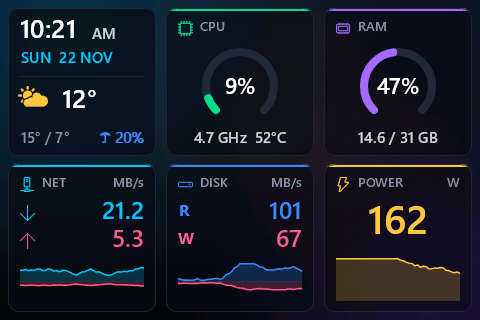
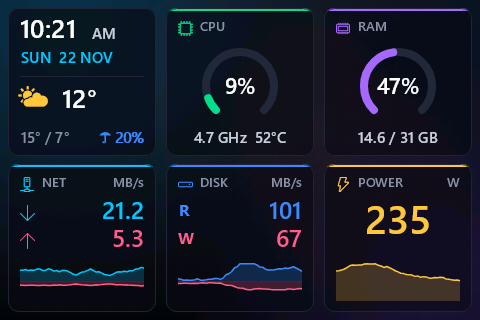
Show the whole PC's power at the wall, estimated from the CPU and GPU
power.total is only the CPU package and the graphics card. The new key
power.wall estimates the wall socket: scale × power.total + offset, set
by "wallPower" in settings.json. The defaults (1.15 and 49 W) are worked
out for this PC: the board, RAM, 7 ARGB fans and 2 NVMe drives draw
about 37 W idle and 58 W in a game, and a 1000 W Gold PSU is about 82%
efficient at idle and 90% in a game. docs/guide.md has the breakdown,
and how two power meter readings give the real line.

The default layout's POWER card and the gaming layout's power line now
show power.wall; the gaming layout no longer splits it into CPU and GPU.
The default's power graph goes to 500 W.

Changed region(s): [[0.75, 0.625, 0.9062, 0.75], [0.6875, 0.7812, 0.9688, 0.875]]

diff --git a/src/SensorPanel/Sensors/SensorHub.cs b/src/SensorPanel/Sensors/SensorHub.cs
@@ -92,6 +92,7 @@ public sealed class SensorHub : IDisposable
     private DiskActivity? _diskActivity;
     private Weather? _weather;
     private readonly WeatherSettings? _weatherSettings;
+    private readonly WallPowerSettings _wallPower;
 
     private static readonly string[] DiskSpaceKeys = ["disk.total", "disk.free", "disk.used", "disk.load"];
 
@@ -108,9 +109,12 @@ public sealed class SensorHub : IDisposable
     /// <param name="keys">The keys the widgets read; only these are bound, and only their devices polled.</param>
     /// <param name="lhmGpu">Read the GPU through LHM even when NVML is there ("lhmGpu" in settings.json).</param>
     /// <param name="weather">Where the weather.* keys are for ("weather" in settings.json).</param>
-    public SensorHub(int refreshMs, IReadOnlyDictionary<string, int> intervals, IEnumerable<string> keys, bool lhmGpu, WeatherSettings? weather = null)
+    /// <param name="wallPower">How power.wall is worked out from power.total ("wallPower" in settings.json).</param>
+    public SensorHub(int refreshMs, IReadOnlyDictionary<string, int> intervals, IEnumerable<string> keys, bool lhmGpu,
+        WeatherSettings? weather = null, WallPowerSettings? wallPower = null)
     {
         _weatherSettings = weather;
+        _wallPower = wallPower ?? new();
         _nvml = lhmGpu ? null : Nvml.Open();
         _computer.IsGpuEnabled = _nvml is null;     // once LHM polls the GPU at all, it pays the whole 77 ms
         _computer.Open();
@@ -233,6 +237,7 @@ public sealed class SensorHub : IDisposable
     {
         ["mem.total"] = ["mem.used", "mem.free"],
         ["power.total"] = ["cpu.power", "gpu.power"],
+        ["power.wall"] = ["cpu.power", "gpu.power"],    // through power.total, which AddDerived works out first
     };
 
     /// <summary>
@@ -244,6 +249,7 @@ public sealed class SensorHub : IDisposable
     [
         "mem.total",
         "power.total",
+        "power.wall",
         .. DiskSpaceKeys,
         DiskActivity.ReadKey, DiskActivity.WriteKey,
         "uptime.days", "uptime.hours", "uptime.minutes",
@@ -264,8 +270,11 @@ public sealed class SensorHub : IDisposable
         // not what the wall socket sees. Like any key, it is absent ("--") when either is missing,
         // rather than a total that quietly leaves one out.
         if (Snapshot.TryGetValue("cpu.power", out var cpuPower) && Snapshot.TryGetValue("gpu.power", out var gpuPower))
+        {
             Snapshot["power.total"] = cpuPower + gpuPower;
-        else Snapshot.Remove("power.total");
+            Snapshot["power.wall"] = _wallPower.At(cpuPower + gpuPower);
+        }
+        else { Snapshot.Remove("power.total"); Snapshot.Remove("power.wall"); }
 
         // Each read of drive space is a GetDiskFreeSpaceEx call, for numbers that move over
         // minutes; between reads the keys keep their values in the snapshot.
@@ -336,5 +345,21 @@ public sealed class SensorHub : IDisposable
         _diskActivity?.Dispose();
         _weather?.Dispose();
     }
+}
+
+/// <summary>
+/// settings.json's "wallPower": what the PC draws from the wall, as a straight line through
+/// power.total (CPU + GPU), which leaves out the board, RAM, fans, drives and the PSU's own losses.
+/// The defaults are an estimate for a Ryzen 7 9850X3D, RTX 5070 Ti, X870 board, 7 ARGB fans, 2 NVMe
+/// drives and a 1000 W Gold PSU. Measured at the wall, two readings give the line: see docs/guide.md.
+/// </summary>
+public sealed class WallPowerSettings
+{
+    /// <summary>Watts at the wall for each watt of power.total.</summary>
+    public double Scale { get; set; } = 1.15;
+    /// <summary>Watts at the wall on top of that.</summary>
+    public double Offset { get; set; } = 49;
+
+    public double At(double total) => Scale * total + Offset;
 }
 

diff --git a/src/SensorPanel/Worker.cs b/src/SensorPanel/Worker.cs
@@ -25,6 +25,7 @@ public sealed class Worker(IPresenter presenter, bool verbose)
     private int _appliedChoice = NoBrightness;      // _chosenBrightness as the presenter was last configured with; worker thread only
     private const int NoBrightness = -1;
     private WeatherSettings? _weather;
+    private WallPowerSettings? _wallPower;
     private readonly ManualResetEventSlim _dark = new(false);   // set once the panel has been blanked for sleep
     private volatile bool _stop, _suspended, _displaysOff;
 
@@ -47,15 +48,17 @@ public sealed class Worker(IPresenter presenter, bool verbose)
     /// <param name="fallbackPath">Loaded instead if <paramref name="configPath"/> cannot be.</param>
     /// <param name="lhmGpu">"lhmGpu" from settings.json, for the SensorHub.</param>
     /// <param name="weather">"weather" from settings.json, for the SensorHub.</param>
+    /// <param name="wallPower">"wallPower" from settings.json, for the SensorHub.</param>
     /// <param name="upsideDown">"upsideDown" from settings.json: every config's orientation is turned 180°.</param>
     /// <param name="fallbackBrightness">"brightness" from settings.json, for configs that set none of their own.</param>
     /// <param name="chosenBrightness">Picked from the tray, over every config's and settings.json's; null for none.</param>
-    public void Start(string configPath, string fallbackPath, bool lhmGpu, WeatherSettings? weather, bool upsideDown, int fallbackBrightness, int? chosenBrightness)
+    public void Start(string configPath, string fallbackPath, bool lhmGpu, WeatherSettings? weather, WallPowerSettings? wallPower, bool upsideDown, int fallbackBrightness, int? chosenBrightness)
     {
         _requested = configPath;
         _fallback = fallbackPath;
         _lhmGpu = lhmGpu;
         _weather = weather;
+        _wallPower = wallPower;
         _upsideDown = upsideDown;
         _fallbackBrightness = fallbackBrightness;
         _chosenBrightness = chosenBrightness ?? NoBrightness;
@@ -215,7 +218,7 @@ public sealed class Worker(IPresenter presenter, bool verbose)
             config = Config.Load(path);
             renderer = new Renderer(config, Path.GetDirectoryName(Path.GetFullPath(path))!);
             var keys = config.Widgets.SelectMany(w => w.SensorKeys());
-            if (_sensors is null) _sensors = new SensorHub(config.RefreshMs, config.SensorIntervals, keys, _lhmGpu, _weather);
+            if (_sensors is null) _sensors = new SensorHub(config.RefreshMs, config.SensorIntervals, keys, _lhmGpu, _weather, _wallPower);
             else _sensors.Configure(config.RefreshMs, config.SensorIntervals, keys);
         }
         catch (Exception e) when (e is JsonException or IOException or UnauthorizedAccessException or InvalidDataException)

diff --git a/src/SensorPanel/Program.cs b/src/SensorPanel/Program.cs
@@ -29,7 +29,8 @@ internal static class Program
                 case "sensors":
                     WarnIfNoDriver();
                     var defaults = new Config();
-                    using (var hub = new SensorHub(defaults.RefreshMs, defaults.SensorIntervals, SensorHub.HardwareKeys, ReadSettings().LhmGpu)) hub.Dump(Console.Out);
+                    var read = ReadSettings();
+                    using (var hub = new SensorHub(defaults.RefreshMs, defaults.SensorIntervals, SensorHub.HardwareKeys, read.LhmGpu, wallPower: read.WallPower)) hub.Dump(Console.Out);
                     return 0;
                 case "--config" when i + 1 < args.Length: configPath = Path.GetFullPath(args[++i]); break;
                 case "--png" when i + 1 < args.Length: pngPath = args[++i]; break;
@@ -80,7 +81,7 @@ internal static class Program
         // --config wins for this run; otherwise the last config picked from the menu, or the default.
         string fallback = DefaultConfig(configs);
         string? last = tray.State.Config is { } picked ? Path.Combine(configs, picked) : null;
-        worker.Start(configPath ?? (File.Exists(last) ? last : fallback), fallback, settings.LhmGpu, settings.Weather, settings.UpsideDown, settings.Brightness, tray.State.Brightness);
+        worker.Start(configPath ?? (File.Exists(last) ? last : fallback), fallback, settings.LhmGpu, settings.Weather, settings.WallPower, settings.UpsideDown, settings.Brightness, tray.State.Brightness);
 
         // Ctrl+C blanks the panel on the way out, through the same Exit as the menu item and as
         // Windows shutting down or signing out (which the tray hears itself). Being killed (Task
@@ -110,6 +111,8 @@ internal static class Program
         public GamingSettings? Gaming { get; set; }
         /// <summary>Where the weather.* keys are for. Sent to Open-Meteo, rounded, while a layout shows the weather.</summary>
         public WeatherSettings? Weather { get; set; }
+        /// <summary>The line from power.total to power.wall. Missing or null: the estimate in <see cref="WallPowerSettings"/>.</summary>
+        public WallPowerSettings? WallPower { get; set; }
         /// <summary>The panel is mounted the other way up: every config's orientation is turned 180°.</summary>
         public bool UpsideDown { get; set; }
         /// <summary>0-100, for every config that does not set its own.</summary>

diff --git a/src/SensorPanel.Screenshots/Program.cs b/src/SensorPanel.Screenshots/Program.cs
@@ -44,6 +44,7 @@ static void Render(string configPath, string outPath, bool gaming = false)
     var game = new GameState(new Random(11));
     var disk = new Random(13);  // its own, so adding the disk values left the other walks as they were
     var s = new Dictionary<string, double>();
+    var wall = new SensorPanel.Sensors.WallPowerSettings();     // the shipped estimate
     double cpu = 18, gpu = 35, net = 8, read = 20, write = 6;
 
     // Enough ticks to fill the longest graph's history.
@@ -81,6 +82,7 @@ static void Render(string configPath, string outPath, bool gaming = false)
         s["net.down"] = net;
         s["net.up"] = net / 4;
         s["power.total"] = s["cpu.power"] + s["gpu.power"];
+        s["power.wall"] = wall.At(s["power.total"]);
         s["weather.temp"] = 12;
         s["weather.high"] = 15;
         s["weather.low"] = 7;
@@ -94,6 +96,7 @@ static void Render(string configPath, string outPath, bool gaming = false)
         {
             Game(game, tick, s);
             s["power.total"] = s["cpu.power"] + s["gpu.power"];     // again: the game replaced both
+            s["power.wall"] = wall.At(s["power.total"]);
         }
 
         renderer.Render(s);

diff --git a/tests/SensorPanel.Tests/SensorHubTests.cs b/tests/SensorPanel.Tests/SensorHubTests.cs
@@ -39,6 +39,20 @@ public class SensorHubTests
     }
 
     [Fact]
+    public void Wall_power_brings_the_cpu_and_gpu_power()
+    {
+        Assert.True(SensorHub.KeysToRead(["power.wall"]).SetEquals(["power.wall", "cpu.power", "gpu.power"]));
+    }
+
+    [Fact]
+    public void Wall_power_is_a_straight_line_through_the_total()
+    {
+        var wall = new WallPowerSettings { Scale = 1.1, Offset = 40 };
+        Assert.Equal(40, wall.At(0), 9);
+        Assert.Equal(480, wall.At(400), 9);
+    }
+
+    [Fact]
     public void Other_keys_are_read_as_they_are_once_each()
     {
         Assert.True(SensorHub.KeysToRead(["cpu.load", "cpu.load", "fps", "nope"]).SetEquals(["cpu.load", "fps", "nope"]));

diff --git a/tests/SensorPanel.Tests/EmbeddedConfigTests.cs b/tests/SensorPanel.Tests/EmbeddedConfigTests.cs
@@ -1,5 +1,6 @@
 using System.Text.Json;
 using SensorPanel.Layout;
+using SensorPanel.Sensors;
 
 namespace SensorPanel.Tests;
 
@@ -56,6 +57,8 @@ public class EmbeddedConfigTests
         Assert.Null(settings.Weather!.Latitude);      // no location until the user gives one: nothing is sent anywhere
         Assert.Null(settings.Weather.Longitude);
         Assert.False(settings.Weather.Fahrenheit);
+        var estimate = new WallPowerSettings();     // what a settings.json without "wallPower" gets
+        Assert.Equal((estimate.Scale, estimate.Offset), (settings.WallPower!.Scale, settings.WallPower.Offset));
         Assert.False(File.Exists(path + ".new"));
     }
 

diff --git a/docs/guide.md b/docs/guide.md
@@ -86,13 +86,14 @@ The COM port is found automatically (USB VID 1A86 / PID 5722), so it does not ma
 
 ## settings.json
 
-A file beside the exe for choices about this PC rather than about a layout. The exe writes it on first start, and again whenever it has been deleted, with every setting at its default; one that is there is never touched. It is read once at start (also by `--png` and `sensors`), so restart the app after editing it. The rules are a config's: comments and trailing commas allowed, unknown names an error. A file that cannot be read is reported and ignored, all of it. It has five settings:
+A file beside the exe for choices about this PC rather than about a layout. The exe writes it on first start, and again whenever it has been deleted, with every setting at its default; one that is there is never touched. It is read once at start (also by `--png` and `sensors`), so restart the app after editing it. The rules are a config's: comments and trailing commas allowed, unknown names an error. A file that cannot be read is reported and ignored, all of it. It has six settings:
 
 ```json
 {
   "lhmGpu": false,
   "upsideDown": false,
   "brightness": 30,
+  "wallPower": { "scale": 1.15, "offset": 49 },
   "weather": { "latitude": 51.51, "longitude": -0.13, "fahrenheit": false },
   "gaming": {
     "config": "gaming/gaming.json",
@@ -116,7 +117,7 @@ Use `lhmGpu` when:
 - you want fan RPM on a driver too old for NVML's fan call (`gpu.fan` has no value there);
 - an NVML reading looks wrong on your card.
 
-It costs: on my machine LibreHardwareMonitor's GPU poll takes 15-20 ms of CPU and ~77 ms in all, every tick, so also add `"sensorIntervals": { "gpu": 3000 }` to each layout you use. The default layout polls the GPU too, though it shows no GPU card: `power.total` needs `gpu.power`.
+It costs: on my machine LibreHardwareMonitor's GPU poll takes 15-20 ms of CPU and ~77 ms in all, every tick, so also add `"sensorIntervals": { "gpu": 3000 }` to each layout you use. The default layout polls the GPU too, though it shows no GPU card: `power.wall` needs `gpu.power`.
 
 ### `upsideDown`
 
@@ -125,6 +126,31 @@ It costs: on my machine LibreHardwareMonitor's GPU poll takes 15-20 ms of CPU an
 ### `brightness`
 
 `brightness` (default `30`) is the panel's brightness, 0-100, for every layout. A layout with its own [`brightness`](#top-level) uses that instead. A percentage picked from the tray's [**Brightness**](#the-tray-icon) menu overrides both.
+
+### `wallPower`
+
+`power.wall` estimates what the whole PC draws from the wall socket, from `power.total` (the CPU and the GPU, the only parts that report their power): `scale × power.total + offset`. `power.total` leaves out the motherboard, RAM, fans, drives and the power supply's own losses. `offset` stands for what draws about the same all the time, and `scale` for the losses that grow with the load. `power.wall` reads `--` whenever `power.total` does. The defaults are `"scale": 1.15, "offset": 49`, also when `wallPower` is left out.
+
+They are an estimate for the PC the default layout was made on: a Ryzen 7 9850X3D, an RTX 5070 Ti, an X870 board, 2×16 GB of DDR5, 7 ARGB fans, 2 NVMe drives and a 1000 W 80 Plus Gold power supply. What `power.total` leaves out there:
+
+| Not in `power.total` | Idle | Gaming |
+|---|---|---|
+| Motherboard: chipset, USB4, Wi-Fi 7, 2.5 GbE, audio | 15 W | 18 W |
+| The CPU's voltage regulators (about 11% of `cpu.power`) | 3 W | 9 W |
+| RAM, 2 sticks | 4 W | 6 W |
+| 7 fans | 5 W | 12 W |
+| Their lighting | 8 W | 8 W |
+| 2 NVMe drives | 2 W | 5 W |
+| **In all** | **37 W** | **58 W** |
+
+With `power.total` at 45 W idle and 380 W in a game, the parts inside the case draw 82 W and 438 W. A Gold power supply is about 82% efficient at 8% of its 1000 W and 90% near half of it, so the wall sees about 100 W and 487 W. The straight line through those two points is, rounded, `1.15 × power.total + 49`. Expect it to be 10-15% out. The GPU's figure is already its whole card, its fans included. USB devices (this panel, a keyboard) are left out: they draw a few watts more.
+
+With a power meter between the PC and the wall, two readings replace the estimate:
+
+1. Set `"scale": 1, "offset": 0` and restart the app: `power.wall` is then `power.total`, so the panel shows what to write down.
+2. Write down the meter and the panel at idle (the desktop, nothing running), then in a game. Both move from second to second, so take what each settles around over ten seconds or so.
+3. `scale = (game wall − idle wall) / (game panel − idle panel)` and `offset = idle wall − scale × idle panel`. For example, 95 W at the wall with 40 W on the panel, and 470 W with 370 W: `scale = 375 / 330 = 1.14`, `offset = 95 − 1.14 × 40 = 49`.
+4. Put those two in, and restart the app.
 
 ### `weather`
 
@@ -181,7 +207,7 @@ By default every device the config's widgets read from is polled every `refreshM
 - The groups are `cpu`, `gpu`, `mem`, `net` and `fan`. `"gpu"` covers every `gpu.*` key. A single key (`"gpu.temp"`) cannot be listed, because hardware is polled a whole device at a time.
 - An interval can only slow a device down. Anything shorter than `refreshMs` is treated as `refreshMs`, and other values are rounded up to a whole number of refreshes: `2500` at a 1000 ms refresh means every 3000 ms. The app logs the interval it ended up with.
 - Between polls a key keeps its last value. Graphs still add a point every refresh, so a graph of a slowed sensor shows flat steps.
-- `disk.*`, `uptime.*`, `power.total` and `weather.*` are computed or fetched, not read from hardware, so they cannot be listed: `uptime.*`, `disk.read` and `disk.write` are refreshed every `refreshMs`, the disk space keys every 30 s because free space moves slowly, and `weather.*` as described under [`weather`](#weather). `power.total` follows `"cpu"` and `"gpu"`, the two it is the sum of. `mem.total` is computed from `mem.used` and `mem.free`, so it follows `"mem"`.
+- `disk.*`, `uptime.*`, `power.total`, `power.wall` and `weather.*` are computed or fetched, not read from hardware, so they cannot be listed: `uptime.*`, `disk.read` and `disk.write` are refreshed every `refreshMs`, the disk space keys every 30 s because free space moves slowly, and `weather.*` as described under [`weather`](#weather). `power.total` and `power.wall` follow `"cpu"` and `"gpu"`, the two they are worked out from. `mem.total` is computed from `mem.used` and `mem.free`, so it follows `"mem"`.
 
 With the GPU read through NVML, no device on my machine is expensive enough to need this. With `"lhmGpu": true` the GPU is: polling it every 3 s instead of every 1 s cuts the app's CPU use by a third to a half. `SensorPanel sensors` shows the poll time of each device LibreHardwareMonitor reads.
 
@@ -307,6 +333,7 @@ Run `SensorPanel sensors` for the live list on your machine. Built in:
 | `fps` † | frames/s | | `disk.read`, `disk.write` | MB/s (drive C:) |
 | `power.total` * | W: `cpu.power` + `gpu.power`; `--` unless both read | | `weather.temp` ‡, `weather.high` ‡, `weather.low` ‡ | °C or °F (now; today's high and low) |
 | `weather.precip` ‡ | % (today's chance of precipitation) | | `weather.code` ‡, `weather.day` ‡ | WMO weather code; 1 by day, 0 at night |
+| `power.wall` * | W: the whole PC at the wall, estimated from `power.total`; see [`wallPower`](#wallpower) | | | |
 
 \* needs administrator + PawnIO.
 

diff --git a/README.md b/README.md
@@ -28,8 +28,9 @@ It is shared as is. It will probably run on other Windows PCs with the same pane
 - **The GPU.** An NVIDIA card is read through NVML, the monitoring library in NVIDIA's driver, which uses the first NVIDIA card. Other GPUs are read through LibreHardwareMonitor, which is untested here; with an AMD or Intel card plus an integrated GPU, pin the right one with `Device:` (see [Adding a key](docs/guide.md#adding-a-key)).
 - **Network.** `net.*` reads the adapter named `Ethernet`: the `Device: "Ethernet"` text in `Maps`. Wi-Fi adapters are usually named `Wi-Fi`; `SensorPanel sensors` lists yours under Network.
 - **Disk.** `disk.*` is drive `C:`: its free space is set by `new DriveInfo("C")` in `AddDerived()` in the same file, and its read and write rates by `\\.\C:` in [Sensors/DiskActivity.cs](src/SensorPanel/Sensors/DiskActivity.cs).
+- **Power.** The power on the default and gaming layouts is an estimate of the whole PC at the wall, worked out from the CPU and GPU for this hardware; with a power meter, two readings give your own (see [settings.json](docs/guide.md#wallpower)).
 - **Weather.** The default layout's weather is for wherever `settings.json` says (see [settings.json](docs/guide.md#weather)); until you give a latitude and longitude it shows `--`.
-- **The layouts.** Ranges are set for this hardware: the network graphs top out at 30 MB/s, the disk graphs at 200 MB/s and the power graph at 250 W ([default.json](src/SensorPanel/Configs/default/default.json)), the VRAM bar at 16 GB ([gaming.json](src/SensorPanel/Configs/gaming/gaming.json)), and the GPU temperature graph covers 20-90 °C ([portrait.json](src/SensorPanel/Configs/portrait/portrait.json)).
+- **The layouts.** Ranges are set for this hardware: the network graphs top out at 30 MB/s, the disk graphs at 200 MB/s and the power graph at 500 W ([default.json](src/SensorPanel/Configs/default/default.json)), the VRAM bar at 16 GB ([gaming.json](src/SensorPanel/Configs/gaming/gaming.json)), and the GPU temperature graph covers 20-90 °C ([portrait.json](src/SensorPanel/Configs/portrait/portrait.json)).
 
 A key whose sensor is not found shows `--` in text and leaves bars, gauges and graphs empty, with no warning. Run `SensorPanel sensors` (elevated, see [Command line](docs/guide.md#command-line)) and check which keys are missing from "Keys available to widgets"; [Adding a key](docs/guide.md#adding-a-key) shows how to point a key at a different sensor.
 
